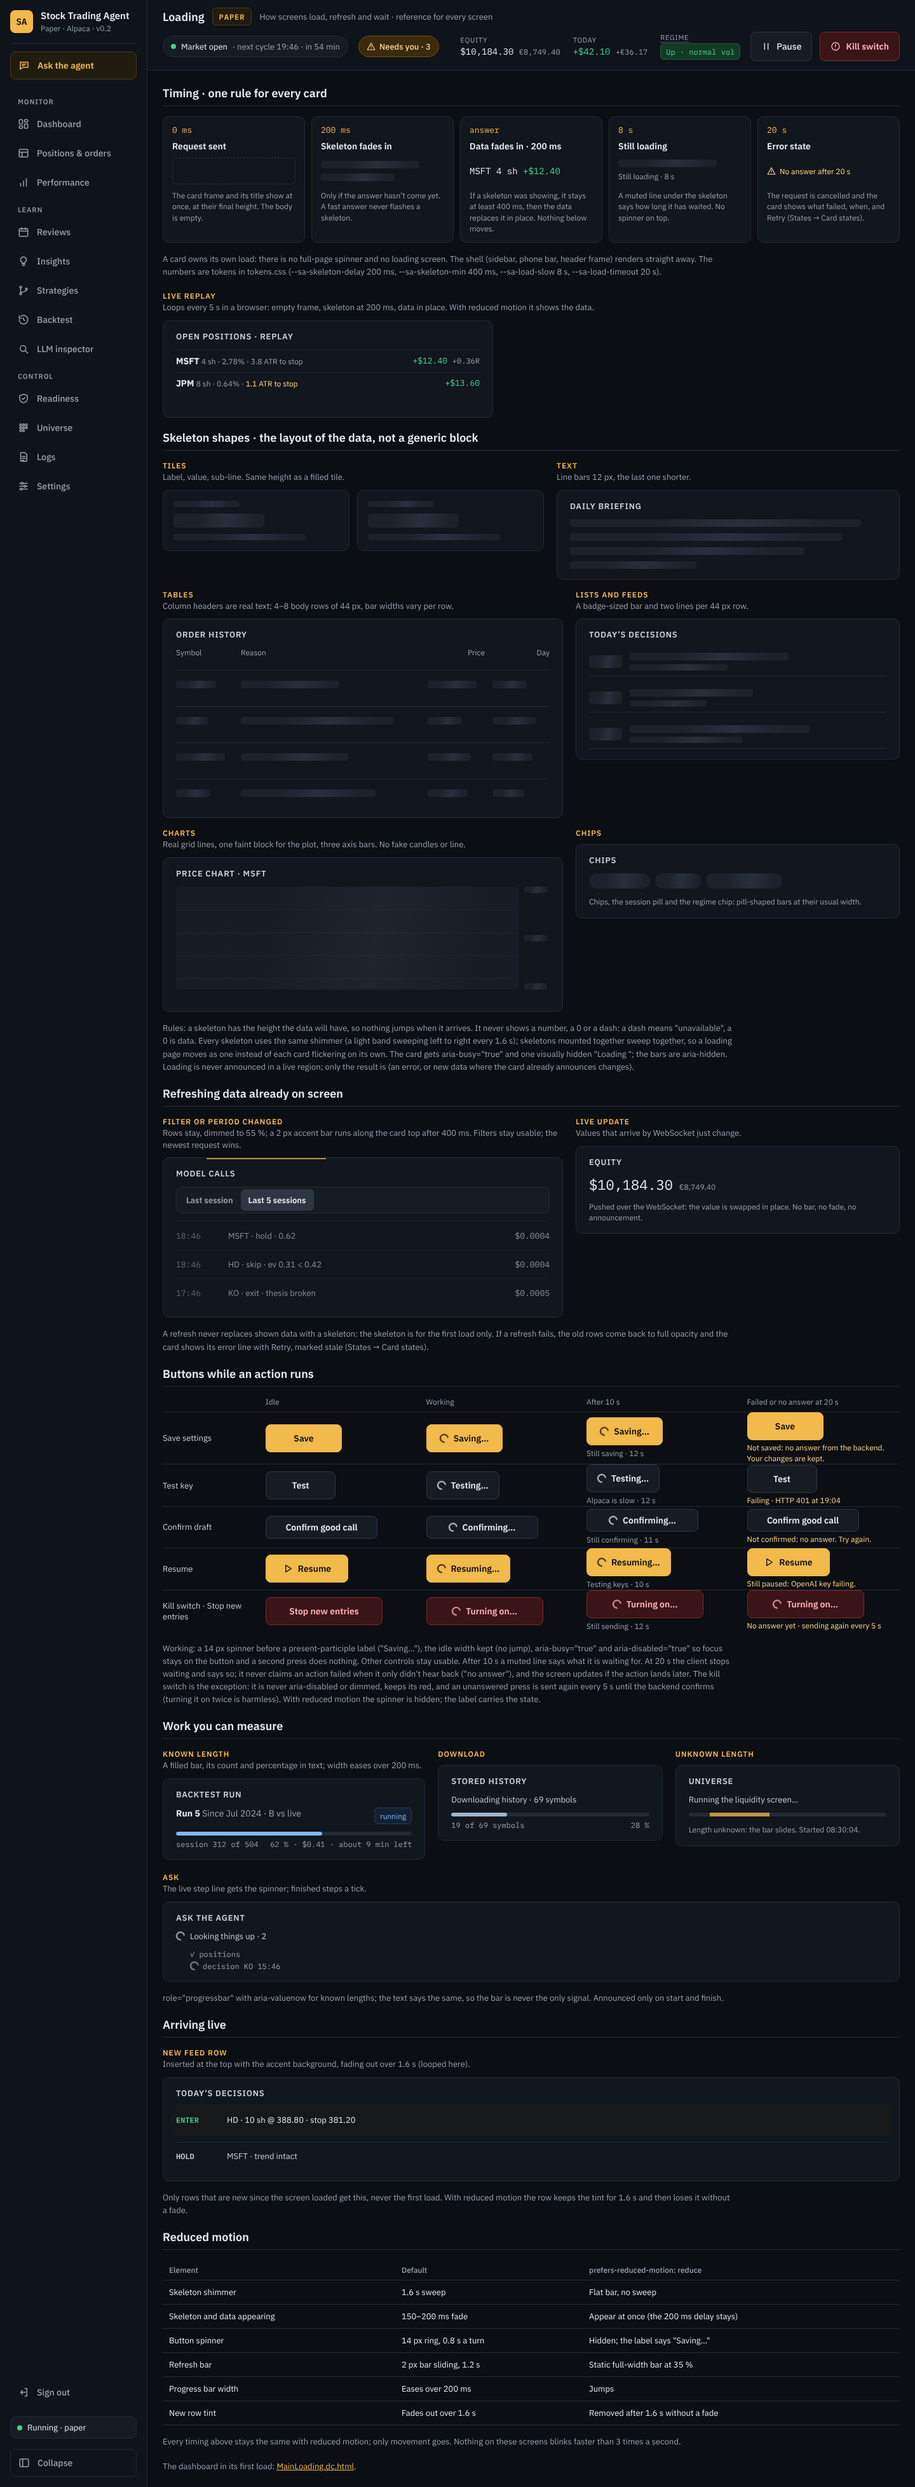
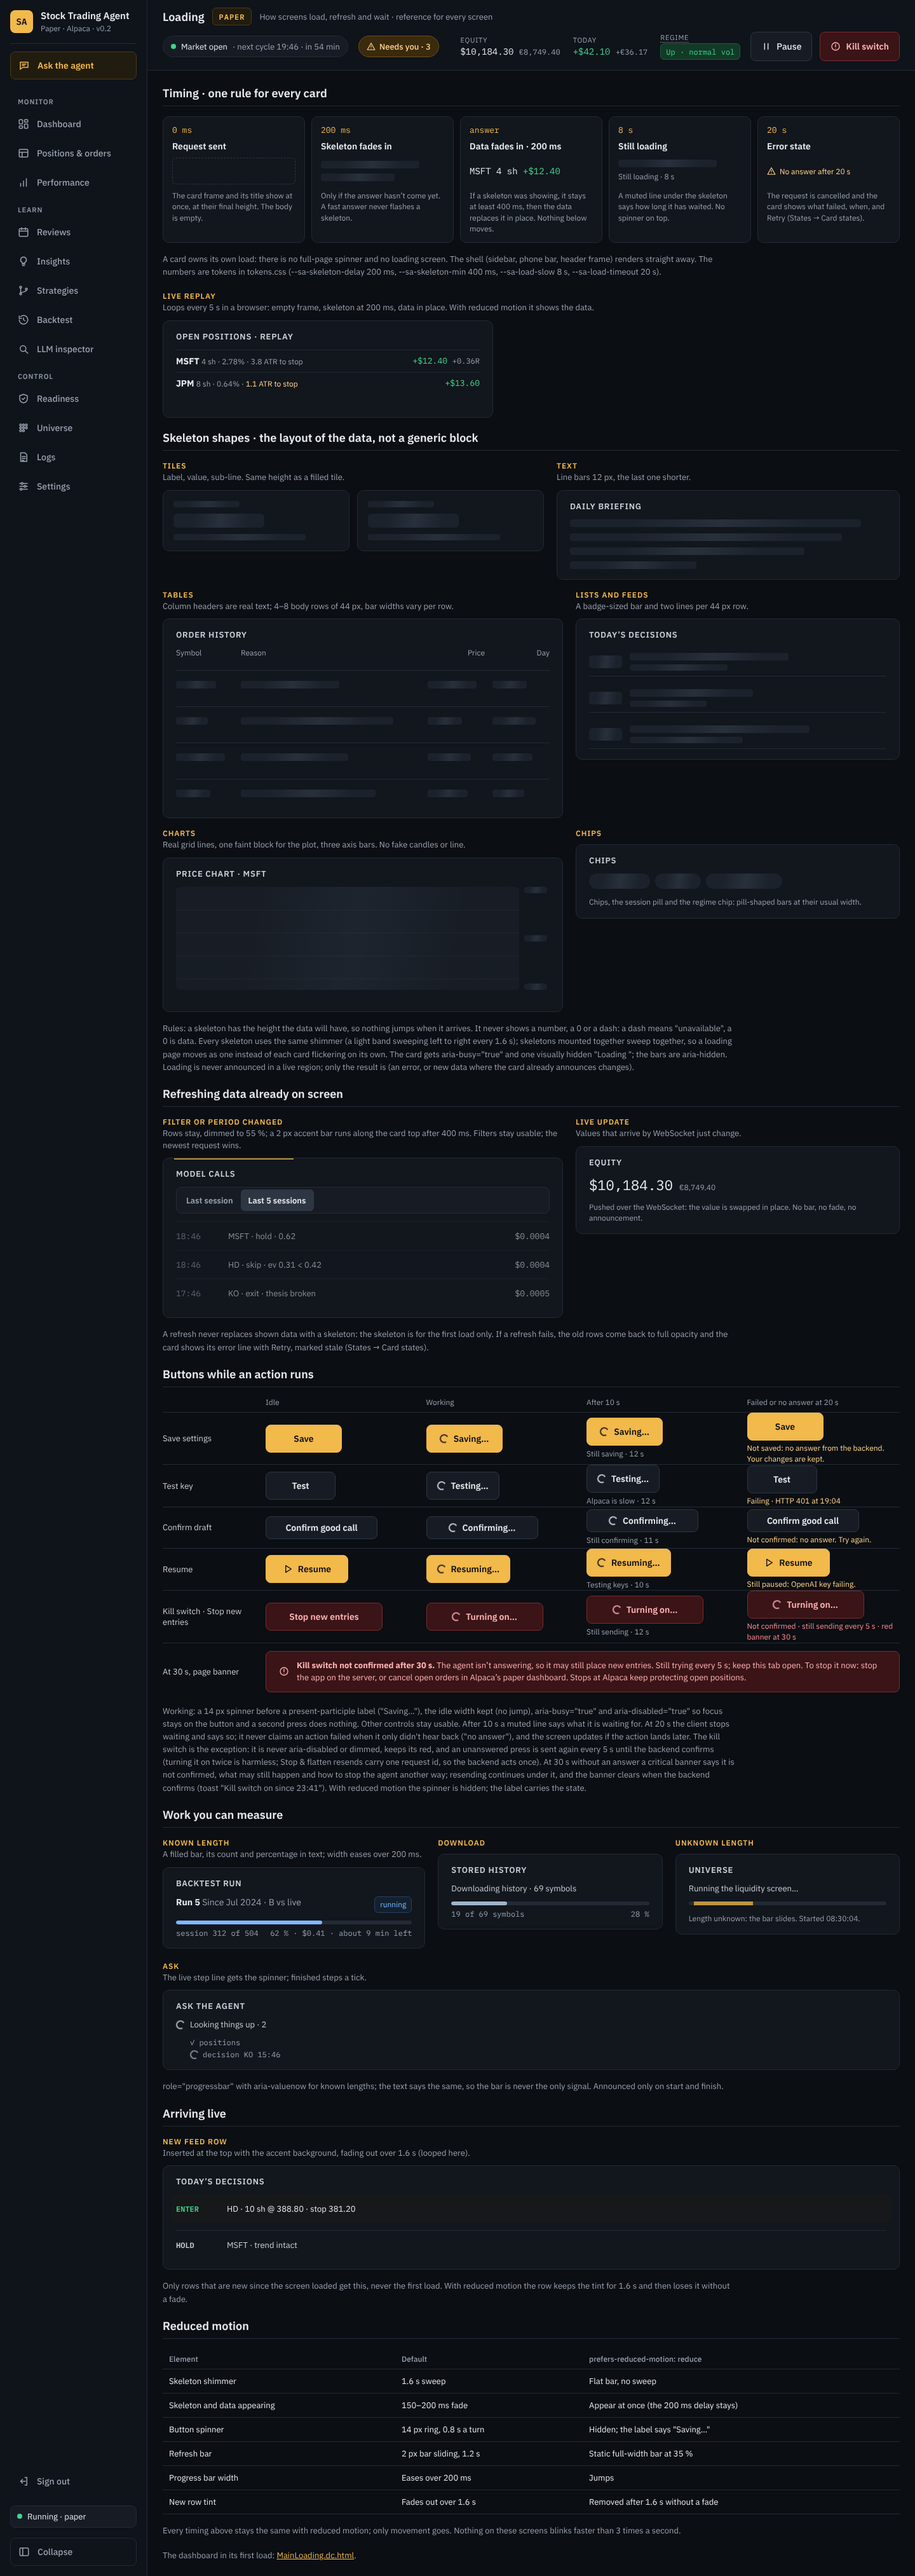
[055] spec: kill switch not confirmed after 30 s
Keep resending every 5 s; at 30 s a critical banner says it is not
confirmed and how to stop the agent another way. Flatten resends carry
one request id.

Claude-Session: https://claude.ai/code/session_01TTAYs1XwGZDitQPmFWu5tz

diff --git a/design/screens/Loading.dc.html b/design/screens/Loading.dc.html
@@ -160,9 +160,13 @@ table{border-collapse:collapse}
   <span><button type="button" style="height: 44px; min-width: 184px; padding: 0 16px; display: inline-flex; align-items: center; justify-content: center; gap: 8px; border-radius: 8px; border: 1px solid #7A2A2E; background: #3A1416; color: #FFB3B6; font-size: 14px; font-weight: 600; cursor: pointer; white-space: nowrap; box-sizing: border-box"><span>Stop new entries</span></button></span>
   <span><button type="button" aria-busy="true" style="height: 44px; min-width: 184px; padding: 0 16px; display: inline-flex; align-items: center; justify-content: center; gap: 8px; border-radius: 8px; border: 1px solid #7A2A2E; background: #3A1416; color: #FFB3B6; font-size: 14px; font-weight: 600; cursor: progress; white-space: nowrap; box-sizing: border-box"><span class="sa-spin" aria-hidden="true"></span><span>Turning on…</span></button></span>
   <span style="display: flex; flex-direction: column; gap: 4px; align-items: flex-start"><button type="button" aria-busy="true" style="height: 44px; min-width: 184px; padding: 0 16px; display: inline-flex; align-items: center; justify-content: center; gap: 8px; border-radius: 8px; border: 1px solid #7A2A2E; background: #3A1416; color: #FFB3B6; font-size: 14px; font-weight: 600; cursor: progress; white-space: nowrap; box-sizing: border-box"><span class="sa-spin" aria-hidden="true"></span><span>Turning on…</span></button><span style="font-size: 12px; color: #98A2AF; line-height: 1.45">Still sending · 12 s</span></span>
-  <span style="display: flex; flex-direction: column; gap: 4px; align-items: flex-start"><button type="button" aria-busy="true" style="height: 44px; min-width: 184px; padding: 0 16px; display: inline-flex; align-items: center; justify-content: center; gap: 8px; border-radius: 8px; border: 1px solid #7A2A2E; background: #3A1416; color: #FFB3B6; font-size: 14px; font-weight: 600; cursor: progress; white-space: nowrap; box-sizing: border-box"><span class="sa-spin" aria-hidden="true"></span><span>Turning on…</span></button><span style="font-size: 12px; color: #FFD58A; line-height: 1.4">No answer yet · sending again every 5 s</span></span>
+  <span style="display: flex; flex-direction: column; gap: 4px; align-items: flex-start"><button type="button" aria-busy="true" style="height: 44px; min-width: 184px; padding: 0 16px; display: inline-flex; align-items: center; justify-content: center; gap: 8px; border-radius: 8px; border: 1px solid #7A2A2E; background: #3A1416; color: #FFB3B6; font-size: 14px; font-weight: 600; cursor: progress; white-space: nowrap; box-sizing: border-box"><span class="sa-spin" aria-hidden="true"></span><span>Turning on…</span></button><span style="font-size: 12px; color: #FF8A8F; line-height: 1.4">Not confirmed · still sending every 5 s · red banner at 30 s</span></span>
+</div>
+<div style="display: flex; flex-wrap: wrap; gap: 12px; align-items: center; padding: 12px 0 4px; border-top: 1px solid #232A35">
+  <span style="flex: 0 0 150px; font-size: 13px; color: #C9CFD6">At 30 s, page banner</span>
+  <div role="alert" style="flex: 1 1 520px; display: flex; flex-wrap: wrap; align-items: center; gap: 12px; padding: 12px 20px; background: #3A1416; border: 1px solid #7A2A2E; border-radius: 8px; color: #FFB3B6; font-size: 13px"><svg width="16" height="16" viewBox="0 0 24 24" fill="none" stroke="currentColor" stroke-width="2" stroke-linecap="round" stroke-linejoin="round" aria-hidden="true" style="flex: 0 0 16px"><circle cx="12" cy="12" r="9"></circle><line x1="12" y1="7" x2="12" y2="13"></line><line x1="12" y1="17" x2="12" y2="17"></line></svg><span style="flex: 1 1 420px; line-height: 1.5"><b>Kill switch not confirmed after 30 s.</b> The agent isn’t answering, so it may still place new entries. Still trying every 5 s; keep this tab open. To stop it now: stop the app on the server, or cancel open orders in Alpaca’s paper dashboard. Stops at Alpaca keep protecting open positions.</span></div>
 </div></div></div>
-<p style="margin: 0; max-width: 900px; font-size: 13px; line-height: 1.55; color: #98A2AF">Working: a 14 px spinner before a present-participle label ("Saving…"), the idle width kept (no jump), aria-busy="true" and aria-disabled="true" so focus stays on the button and a second press does nothing. Other controls stay usable. After 10 s a muted line says what it is waiting for. At 20 s the client stops waiting and says so; it never claims an action failed when it only didn't hear back ("no answer"), and the screen updates if the action lands later. The kill switch is the exception: it is never aria-disabled or dimmed, keeps its red, and an unanswered press is sent again every 5 s until the backend confirms (turning it on twice is harmless). With reduced motion the spinner is hidden; the label carries the state.</p>
+<p style="margin: 0; max-width: 900px; font-size: 13px; line-height: 1.55; color: #98A2AF">Working: a 14 px spinner before a present-participle label ("Saving…"), the idle width kept (no jump), aria-busy="true" and aria-disabled="true" so focus stays on the button and a second press does nothing. Other controls stay usable. After 10 s a muted line says what it is waiting for. At 20 s the client stops waiting and says so; it never claims an action failed when it only didn't hear back ("no answer"), and the screen updates if the action lands later. The kill switch is the exception: it is never aria-disabled or dimmed, keeps its red, and an unanswered press is sent again every 5 s until the backend confirms (turning it on twice is harmless; Stop &amp; flatten resends carry one request id, so the backend acts once). At 30 s without an answer a critical banner says it is not confirmed, what may still happen and how to stop the agent another way; resending continues under it, and the banner clears when the backend confirms (toast "Kill switch on since 23:41"). With reduced motion the spinner is hidden; the label carries the state.</p>
 </section>
 <section aria-label="Work you can measure" style="display: flex; flex-direction: column; gap: 16px">
   <h2 style="margin: 0; padding-bottom: 8px; border-bottom: 1px solid #232A35; font-size: 18px; font-weight: 600">Work you can measure</h2>

diff --git a/design/screens/States.dc.html b/design/screens/States.dc.html
@@ -38,6 +38,9 @@ table{border-collapse:collapse}
 <div style="margin-bottom: 10px"><div style="font-size: 12px; font-weight: 600; color: #F2B94B; text-transform: uppercase; letter-spacing: 0.08em">Kill switch on · manual</div></div><div role="status" style="display: flex; flex-wrap: wrap; align-items: center; gap: 12px; padding: 12px 20px; background: #3A1416; border: 1px solid #7A2A2E; border-radius: 8px; color: #FFB3B6; font-size: 13px">
   <svg width="16" height="16" viewBox="0 0 24 24" fill="none" stroke="currentColor" stroke-width="2" stroke-linecap="round" stroke-linejoin="round" aria-hidden="true" style="flex: 0 0 16px"><circle cx="12" cy="12" r="9"></circle><line x1="12" y1="7" x2="12" y2="13"></line><line x1="12" y1="17" x2="12" y2="17"></line></svg><span style="flex: 1 1 420px; line-height: 1.5"><b>Kill switch on since 19:02.</b> No new entries. Stops and targets at Alpaca stay in place. Reason: “testing the flow”.</span><button type="button" style="height: 36px; padding: 0 12px; border-radius: 8px; border: 1px solid #7A2A2E; background: transparent; color: #FFB3B6; font-size: 13px; font-weight: 500; cursor: pointer; white-space: nowrap">Resume…</button><button type="button" style="height: 36px; padding: 0 12px; border-radius: 8px; border: 1px solid #7A2A2E; background: transparent; color: #FFB3B6; font-size: 13px; font-weight: 500; cursor: pointer; white-space: nowrap">Stop &amp; flatten…</button>
 </div>
+<div style="margin-bottom: 10px"><div style="font-size: 12px; font-weight: 600; color: #F2B94B; text-transform: uppercase; letter-spacing: 0.08em">Kill switch not confirmed</div><div style="font-size: 13px; color: #98A2AF; margin-top: 2px">Critical; 30 s after a press with no answer from the backend. Resending every 5 s continues; clears when the backend confirms</div></div><div role="status" style="display: flex; flex-wrap: wrap; align-items: center; gap: 12px; padding: 12px 20px; background: #3A1416; border: 1px solid #7A2A2E; border-radius: 8px; color: #FFB3B6; font-size: 13px">
+  <svg width="16" height="16" viewBox="0 0 24 24" fill="none" stroke="currentColor" stroke-width="2" stroke-linecap="round" stroke-linejoin="round" aria-hidden="true" style="flex: 0 0 16px"><circle cx="12" cy="12" r="9"></circle><line x1="12" y1="7" x2="12" y2="13"></line><line x1="12" y1="17" x2="12" y2="17"></line></svg><span style="flex: 1 1 420px; line-height: 1.5"><b>Kill switch not confirmed after 30 s.</b> The agent isn’t answering, so it may still place new entries. Still trying every 5 s; keep this tab open. To stop it now: stop the app on the server, or cancel open orders in Alpaca’s paper dashboard. Stops at Alpaca keep protecting open positions.</span>
+</div>
 <div style="margin-bottom: 10px"><div style="font-size: 12px; font-weight: 600; color: #F2B94B; text-transform: uppercase; letter-spacing: 0.08em">Kill switch on · automatic</div></div><div role="status" style="display: flex; flex-wrap: wrap; align-items: center; gap: 12px; padding: 12px 20px; background: #3A1416; border: 1px solid #7A2A2E; border-radius: 8px; color: #FFB3B6; font-size: 13px">
   <svg width="16" height="16" viewBox="0 0 24 24" fill="none" stroke="currentColor" stroke-width="2" stroke-linecap="round" stroke-linejoin="round" aria-hidden="true" style="flex: 0 0 16px"><circle cx="12" cy="12" r="9"></circle><line x1="12" y1="7" x2="12" y2="13"></line><line x1="12" y1="17" x2="12" y2="17"></line></svg><span style="flex: 1 1 420px; line-height: 1.5"><b>Kill switch turned on automatically at 20:46:</b> equity is 8.1% below its peak of $10,184.30. No new entries until you resume.</span><button type="button" style="height: 36px; padding: 0 12px; border-radius: 8px; border: 1px solid #7A2A2E; background: transparent; color: #FFB3B6; font-size: 13px; font-weight: 500; cursor: pointer; white-space: nowrap">Resume…</button>
 </div>

diff --git a/design/DESIGN.md b/design/DESIGN.md
@@ -116,7 +116,7 @@ These apply to every screen. Inline styles can't express hover or focus, so the 
 - **Header on first load:** the session pill and equity, today and regime are bars; the Needs you chip and the phone-bar count stay hidden until the list is known; Pause is `aria-disabled` until the agent's state is known (it could be Resume). The kill switch works from the first frame.
 - **Refreshing data already shown** (filter, period, symbol changed): never a skeleton. Rows stay, dimmed to 55 %, and after 400 ms a 2 px accent bar runs along the card's top edge. Controls stay usable; the newest request wins. Values pushed over the WebSocket just change, with no bar or fade. A failed refresh restores the rows and shows the card's error line, marked stale.
 - **Buttons while an action runs:** a 14 px spinner before a present-participle label ("Saving…", "Testing…", "Confirming…", "Resuming…"), the idle width kept, `aria-busy="true"` and `aria-disabled="true"` (not `disabled`, so focus stays and a second press does nothing). The rest of the screen stays usable. After 10 s a muted line says what it waits for ("Alpaca is slow · 12 s"). At 20 s it says "no answer", never "failed" unless the backend said so, and the screen updates if the action lands later. Unsaved input is kept.
-- **Kill switch:** never `aria-disabled`, dimmed or greyed. Pressed, it shows "Turning on…" with the spinner in full red; with no answer it is sent again every 5 s until the backend confirms (turning it on twice is harmless).
+- **Kill switch:** never `aria-disabled`, dimmed or greyed. Pressed, it shows "Turning on…" with the spinner in full red; with no answer it is sent again every 5 s until the backend confirms (turning it on twice is harmless; Stop & flatten resends carry one request id, so the backend acts once). At 30 s without an answer a critical banner (`role="alert"`) says it is not confirmed, that the agent may still place entries, to keep the tab open, and how to stop it another way (stop the app on the server, or cancel open orders in Alpaca's paper dashboard). Resending continues under the banner; it clears when the backend confirms, with the toast "Kill switch on since 23:41". Decided 8 Nov.
 - **Measurable work** (backtest runs, history downloads): a filled 6 px bar with the count and percentage in text, `role="progressbar"` with `aria-valuenow`; the width eases over 200 ms. Unknown length (the liquidity screen): the sliding bar. Ask's live lookup step gets the spinner, finished steps a tick.
 - **Arriving live:** a row that is new since the screen loaded (feed, order history, Logs with Follow) gets the accent background, fading out over 1.6 s. Never on the first load.
 - **Screen readers:** a loading card has `aria-busy="true"` and one visually hidden "Loading <card title>"; skeleton bars are `aria-hidden`. Loading is never announced in a live region; results are, as the Live regions rule says.

diff --git a/design/CHANGES.md b/design/CHANGES.md
@@ -4,10 +4,10 @@ Newest first. Each entry names the screens it touches.
 
 ## 2026-11-08 — [055] Loading states
 
-- New **`Loading.dc.html`**: the loading reference. Timing (frame at once, skeleton after 200 ms, at least 400 ms once shown, data fades in over 200 ms, "Still loading" at 8 s, error state at 20 s) with a live replay; skeleton shapes for tiles, text, tables, lists, charts and chips; refreshing data already shown (rows dimmed, 2 px refresh bar); buttons while an action runs (Save, Test key, Confirm draft, Resume: idle, working, after 10 s, no answer) and the kill switch, which is never disabled and resends every 5 s; progress bars, the unknown-length bar and Ask's live step; the new-row tint; a reduced-motion table. `Loading.png`, `Loading-390.png`.
+- New **`Loading.dc.html`**: the loading reference. Timing (frame at once, skeleton after 200 ms, at least 400 ms once shown, data fades in over 200 ms, "Still loading" at 8 s, error state at 20 s) with a live replay; skeleton shapes for tiles, text, tables, lists, charts and chips; refreshing data already shown (rows dimmed, 2 px refresh bar); buttons while an action runs (Save, Test key, Confirm draft, Resume: idle, working, after 10 s, no answer) and the kill switch, which is never disabled, resends every 5 s and shows a critical "Kill switch not confirmed after 30 s" banner while it keeps trying (decided 8 Nov); progress bars, the unknown-length bar and Ask's live step; the new-row tint; a reduced-motion table. `Loading.png`, `Loading-390.png`.
 - New **`MainLoading.dc.html`**: the dashboard about 600 ms after opening. Real titles and column headers, skeletons at final size, header stats as bars, no Needs you count yet, Pause waiting, kill switch live. `MainLoading.png`, `MainLoading-390.png`.
 - **Every screen:** the skeleton animation changes from an opacity pulse (1.4 s) to a shimmer (1.6 s), and the shared CSS gains the loading classes (`sa-loading`, `sa-in`, `sa-spin`, `sa-refresh`, `sa-stale-rows`, `sa-new`, `sa-bar-fill`, `sa-sr`). Only the CSS line changes; no layout changes. Screenshots of other screens unchanged.
-- `States.dc.html` → Card states: the loading example drops the visible "Loading…" (now visually hidden) and links to `Loading.dc.html`. `States.png` re-rendered.
+- `States.dc.html` → Card states: the loading example drops the visible "Loading…" (now visually hidden) and links to `Loading.dc.html`. Banners: new "Kill switch not confirmed". `States.png` re-rendered.
 - `tokens.css`: `--sa-skeleton-shine`, `--sa-ease`, `--sa-fade`, `--sa-skeleton-delay`, `--sa-skeleton-min`, `--sa-refresh-delay`, `--sa-load-slow`, `--sa-load-timeout`, `--sa-new-row`, and the loading classes with their reduced-motion rules.
 - `DESIGN.md`: a new **Loading** section with the rules; Card states points to it; both new screens in the screen table.
 
